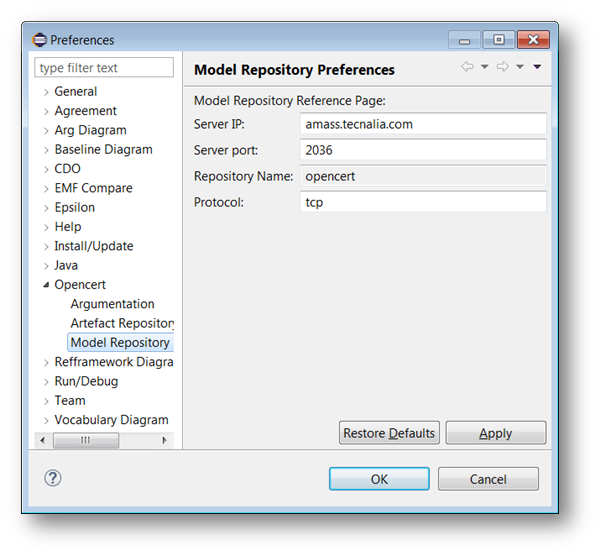
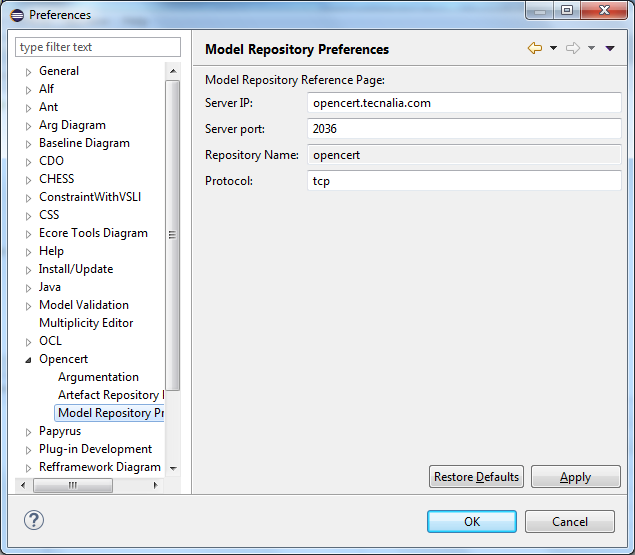
fix tutorial

diff --git a/gettingstarted/index.html b/gettingstarted/index.html
@@ -245,7 +245,7 @@
 <p>The information to introduce is:</p>
 
 <ul>
-<li><strong>Server IP:</strong> The IP of the centralized CDO Server (amass.tecnalia.com).</li>
+<li><strong>Server IP:</strong> The IP of the centralized CDO Server (<a href="http://opencert.tecnalia.com">opencert.tecnalia.com</a>).</li>
 <li><strong>Server Port:</strong> The port used by the running CDO Server. Take into account that if the client is behind a proxy, the port 2036 shall be open, otherwise the communication will fail.</li>
 <li><strong>Repository name:</strong> The name of the repository where all the date will be stored (read only).</li>
 <li><strong>Protocol:</strong> The protocol used to connect to the CDO Server.</li>
@@ -259,7 +259,7 @@
 
 <p><img src="../images/tutorials/Fig5.png" class="img-responsive" alt="Figure 5 - Opencert Perspective"><br /></p>
 
-<p>If the provided connection settings with the repository are incorrect or the server is not running, this view will display the error in the screenshot below instead of the contents of the repository. To solve it, check the server is running (using the page <a href="http://amass.tecnalia.com:8080">http://amass.tecnalia.com:8080</a>) and the configuration settings are correct, ensure the communication ports (2036 and 8080) are open, close the Repository Explorer view and open it again (Window→Show View→Other→Opencert→Repository Explorer).</p>
+<p>If the provided connection settings with the repository are incorrect or the server is not running, this view will display the error in the screenshot below instead of the contents of the repository. To solve it, check the server is running (using the page <a href="http://opencert.tecnalia.com:8080">http://opencert.tecnalia.com:8080</a>) and the configuration settings are correct, ensure the communication ports (2036 and 8080) are open, close the Repository Explorer view and open it again (Window→Show View→Other→Opencert→Repository Explorer).</p>
 
 <p><img src="../images/tutorials/Fig6.png" class="img-responsive" alt="Figure 6 - Opencert Perspective"></p>
 
